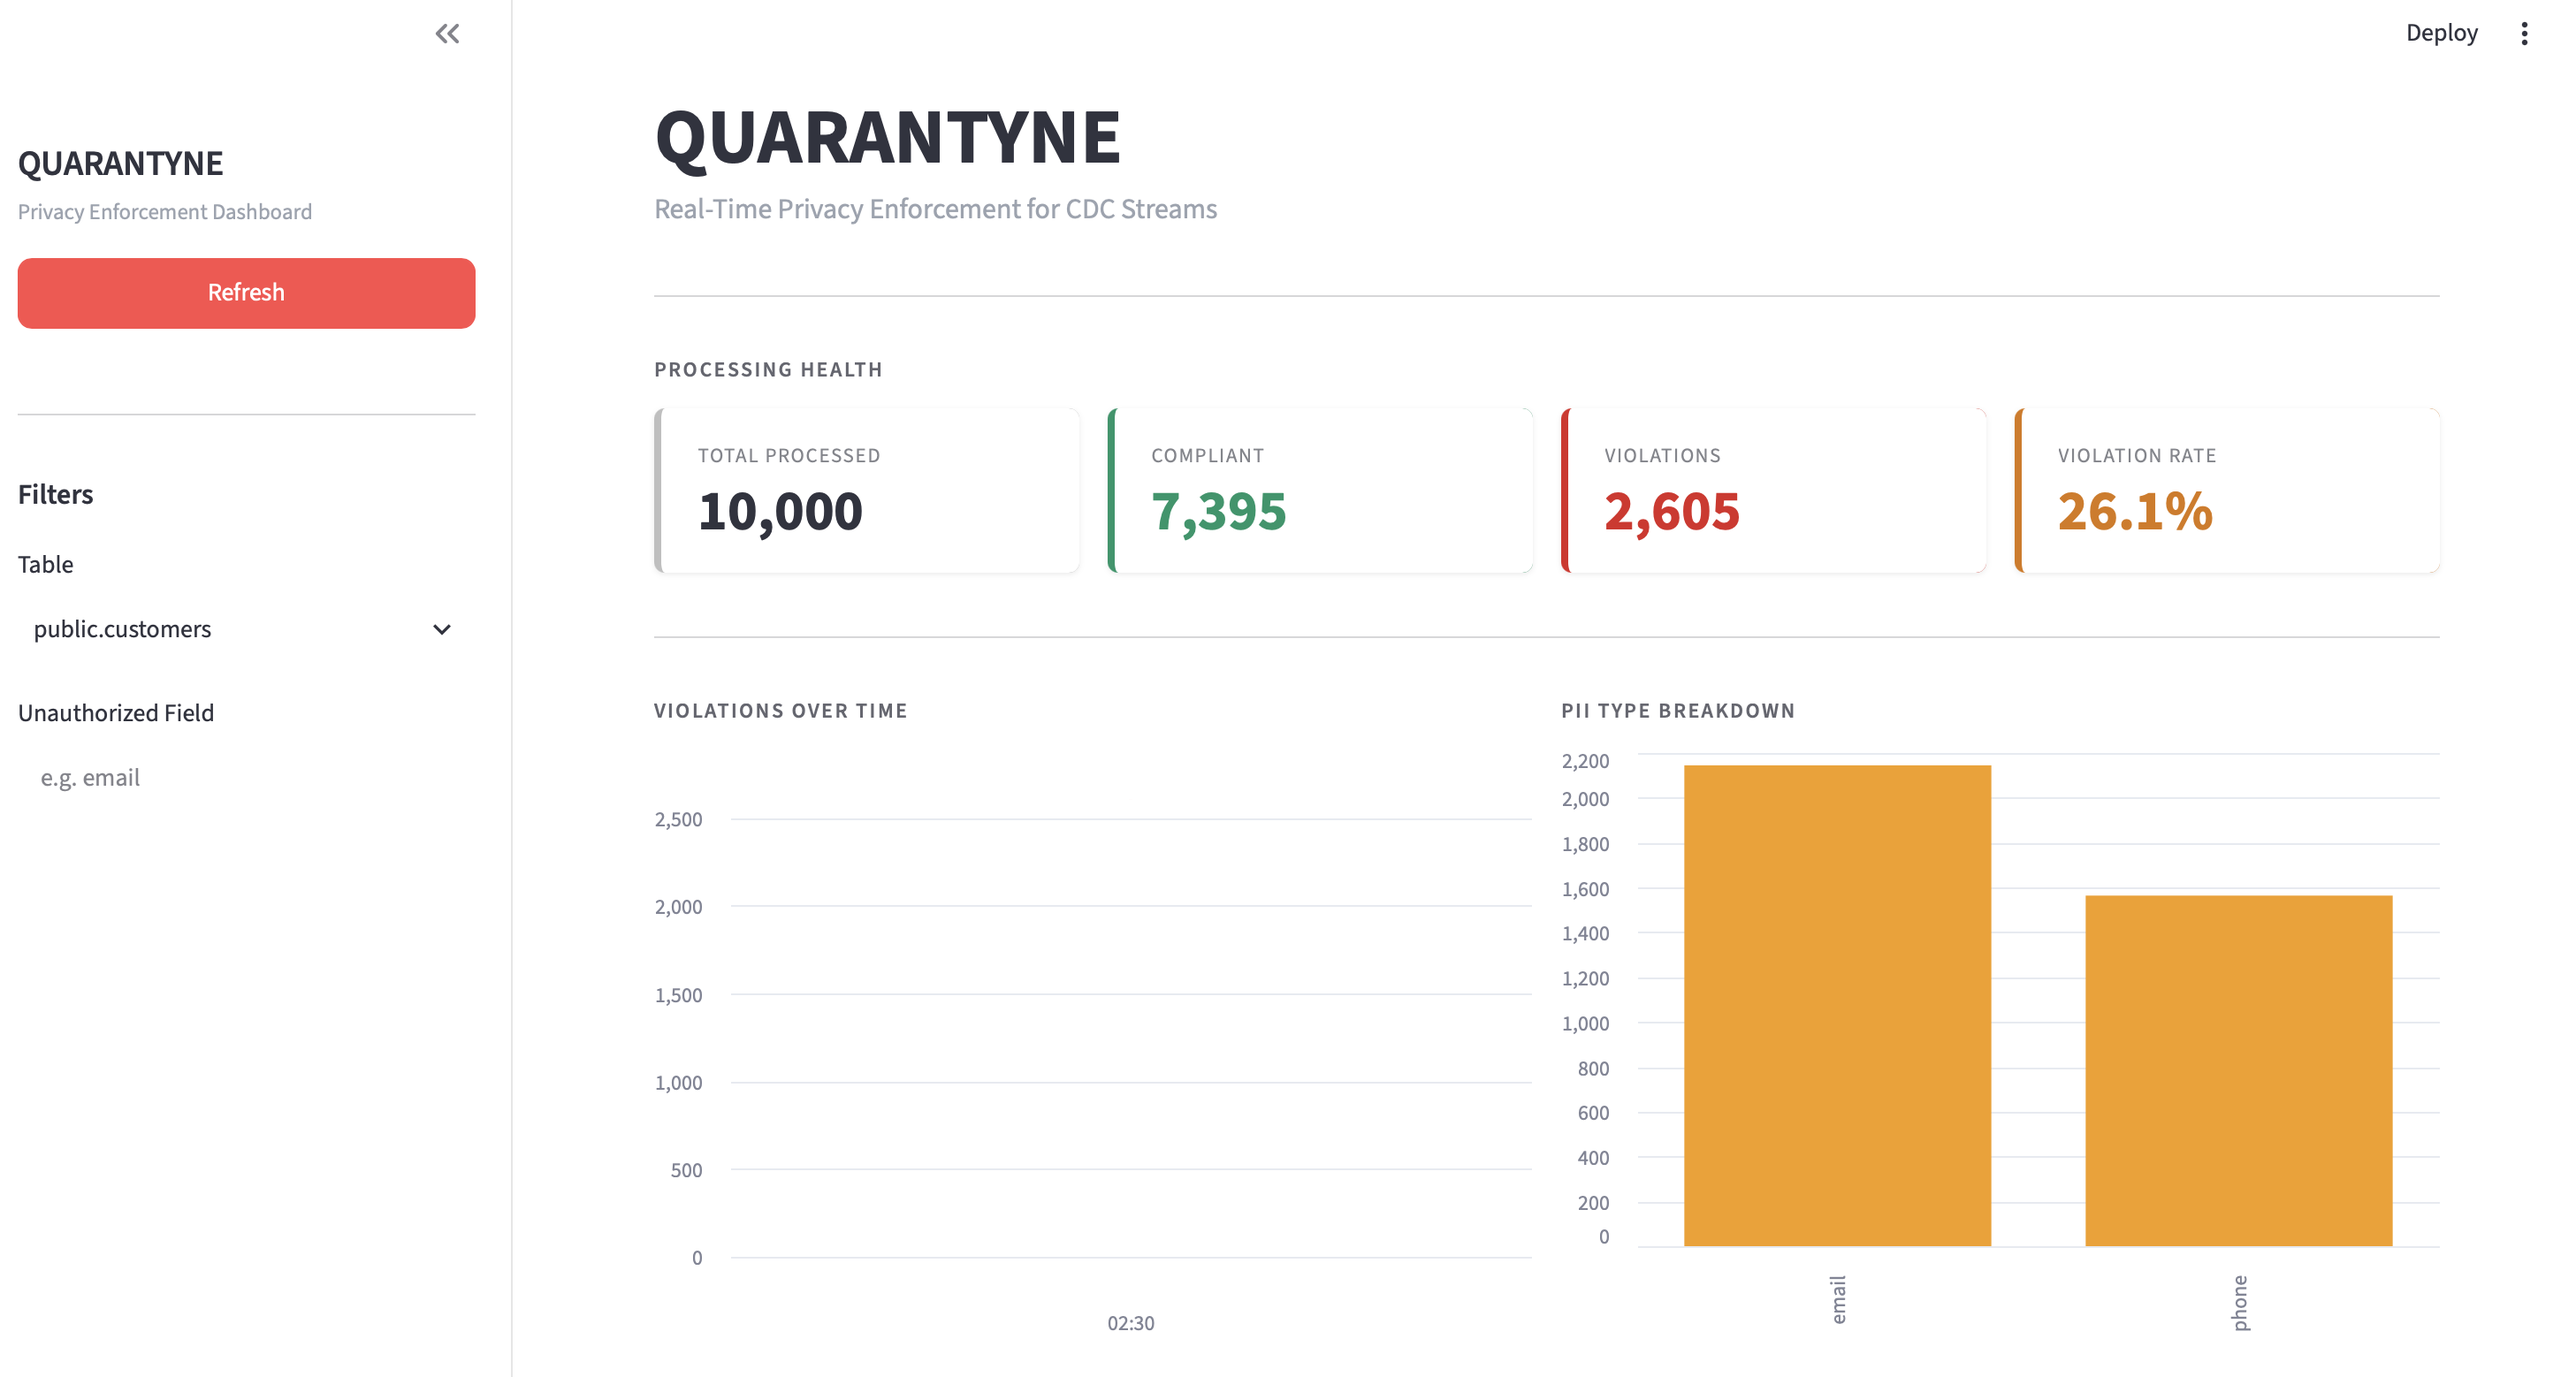
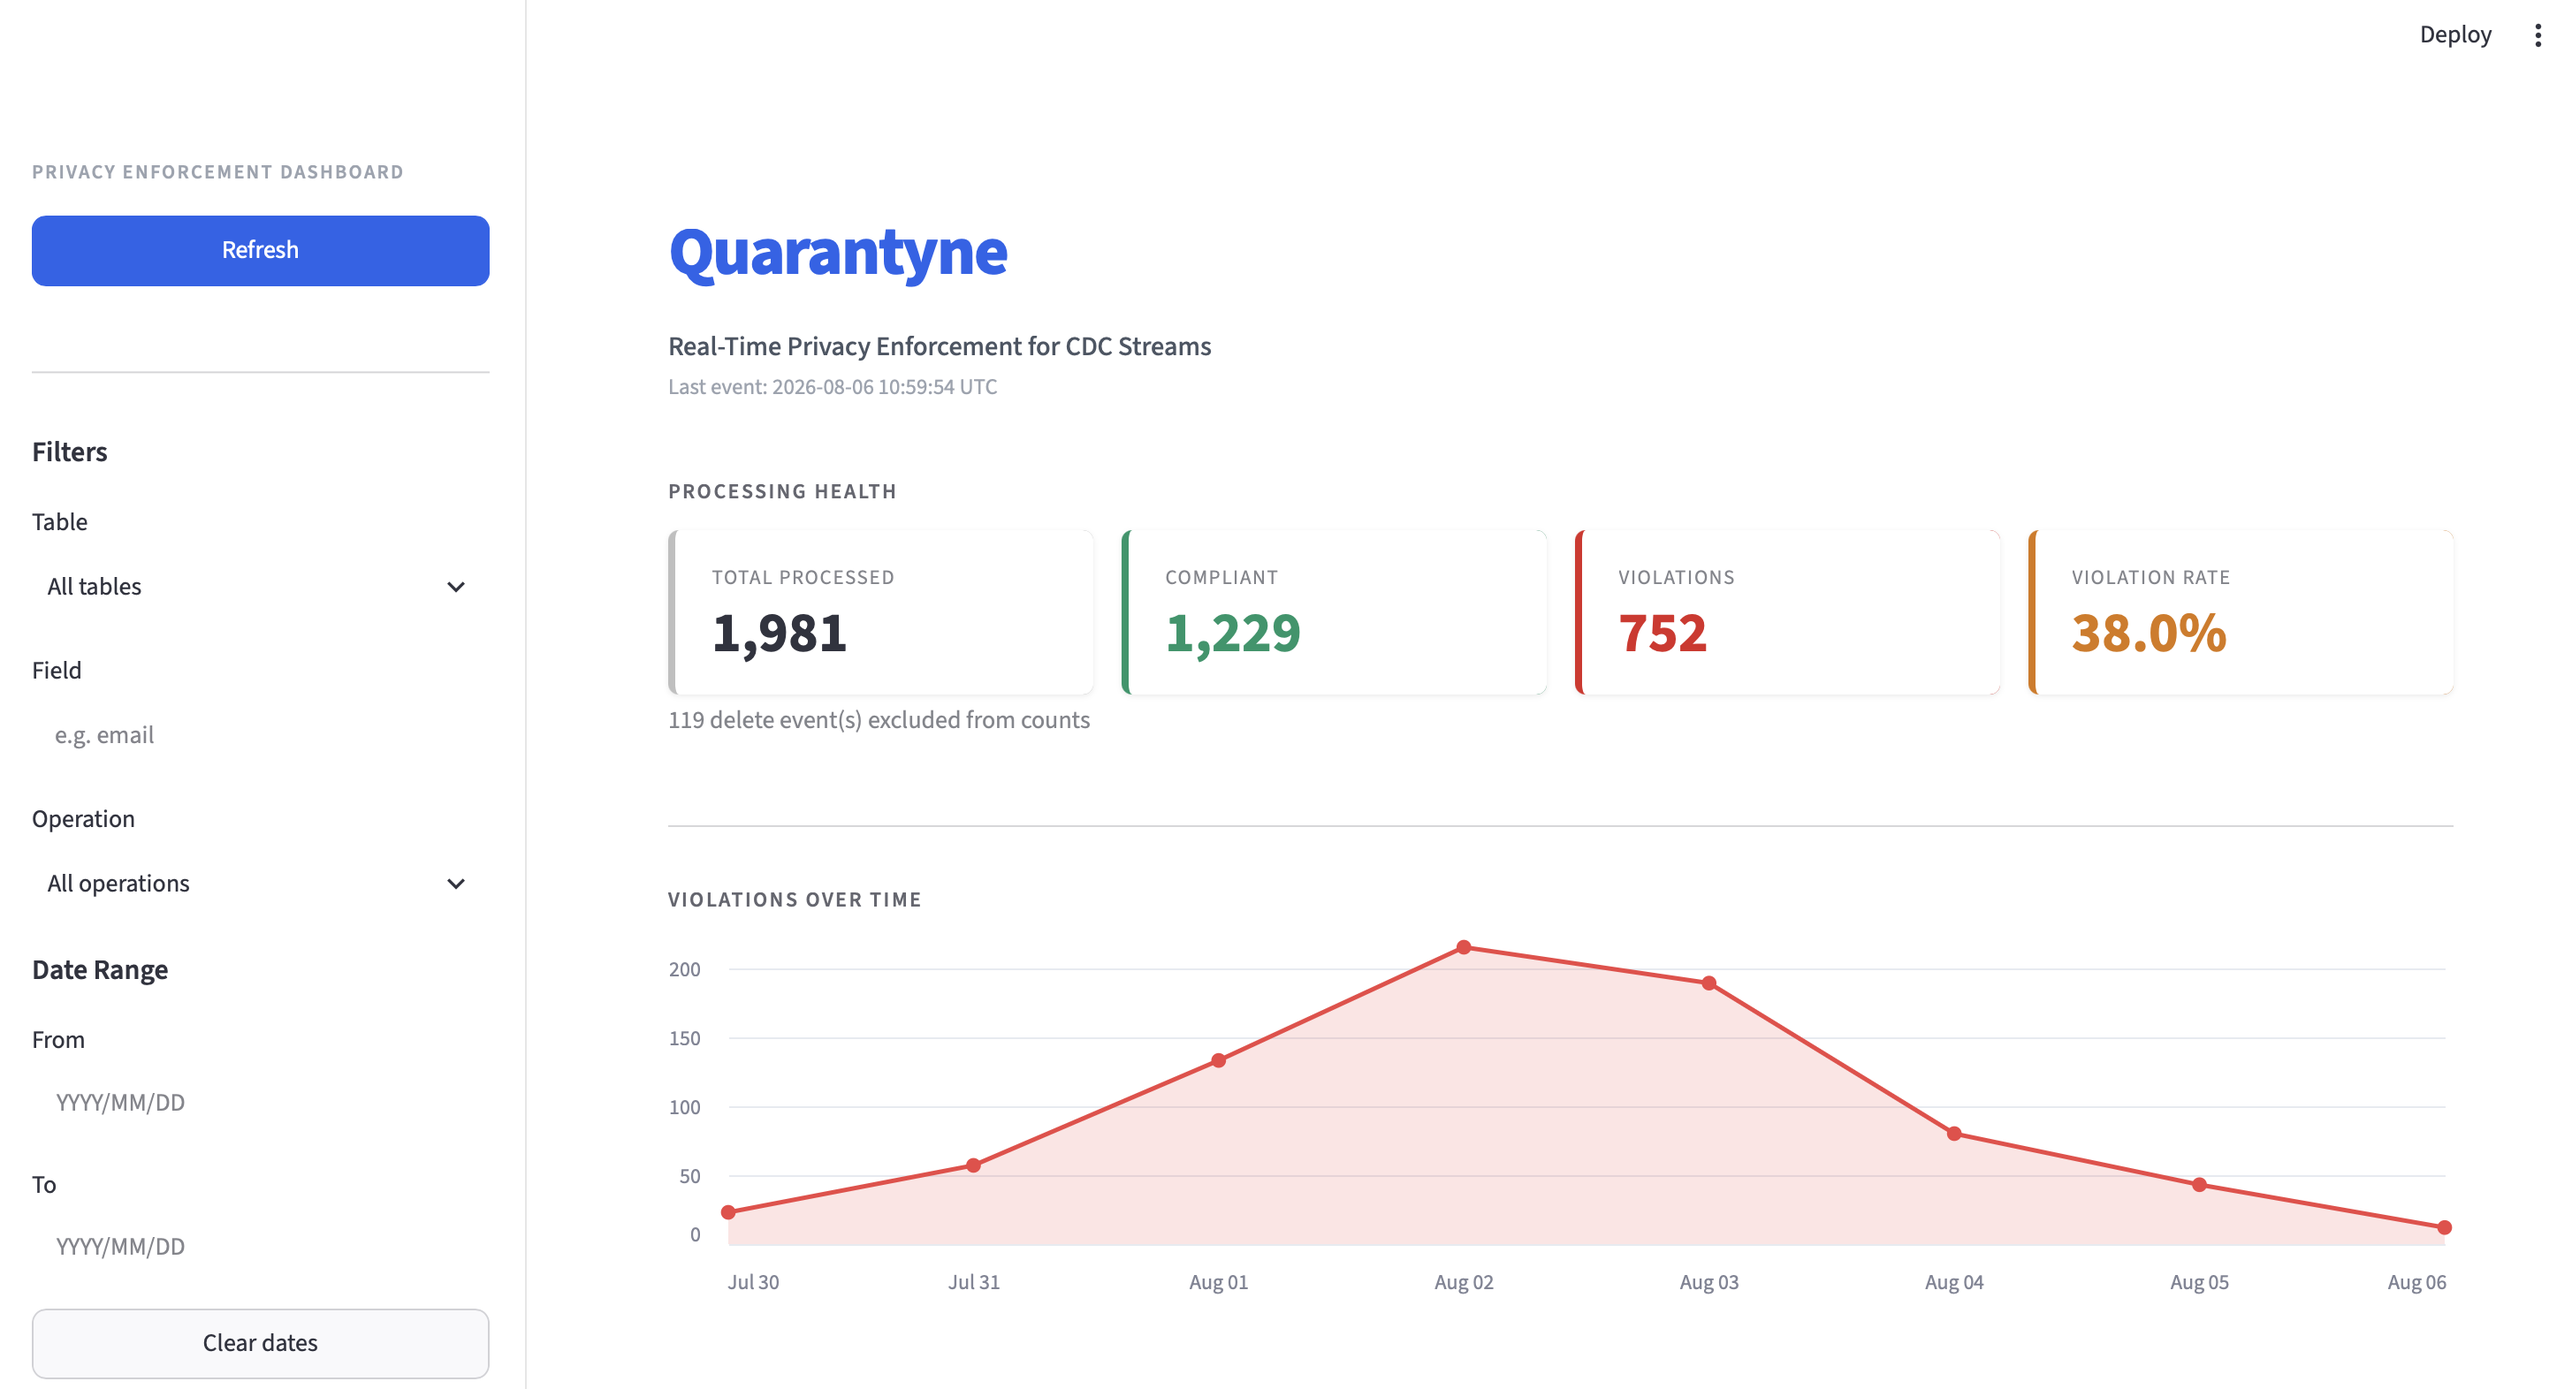
Add consumer and replay terminal screenshots, update README
- Add consumer-output.png: live enforcement showing INSERT→COMPLIANT
  then UPDATE→VIOLATION with phone unauthorized, email allowed by policy
- Add pii-breakdown.png: horizontal bar chart with all 13 PII types
- Add replay-output.png: policy replay demo with outcome summary
- Update README screenshots section with captions for all 5 images

diff --git a/README.md b/README.md
@@ -7,11 +7,20 @@ Quarantyne is a real-time privacy enforcement gateway that sits between a databa
 
 ## Screenshots
 
+**Processing health, violation trend, and active filters**
 ![Dashboard](screenshots/dashboard.png)
 
-![Records](screenshots/records.png)
+**PII type breakdown — ranked by violation frequency across all tables**
+![PII Breakdown](screenshots/pii-breakdown.png)
 
+**Violation detail — before/after diff, detection reasoning, newly introduced fields (PII masked for display)**
 ![Violation Detail](screenshots/violation-detail.png)
+
+**Consumer — live enforcement: clean INSERT routed to approved, UPDATE with unauthorized PII quarantined**
+![Consumer Output](screenshots/consumer-output.png)
+
+**Replay demo — historical events reprocessed through updated policy, outcome changes surfaced**
+![Replay Output](screenshots/replay-output.png)
 
 ---
 
